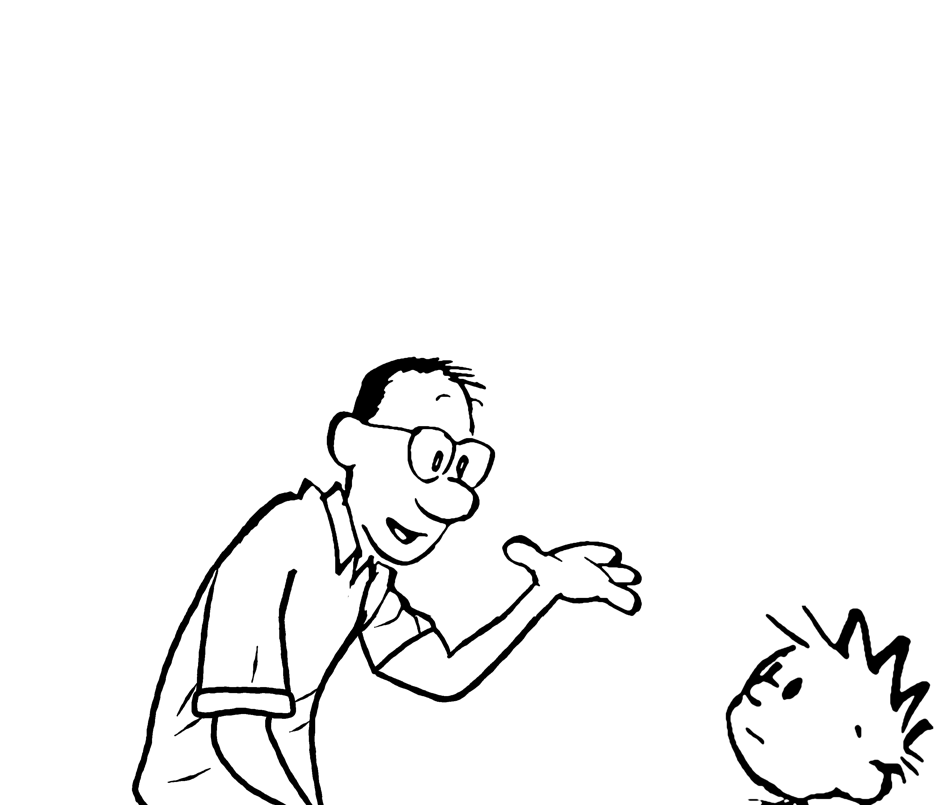
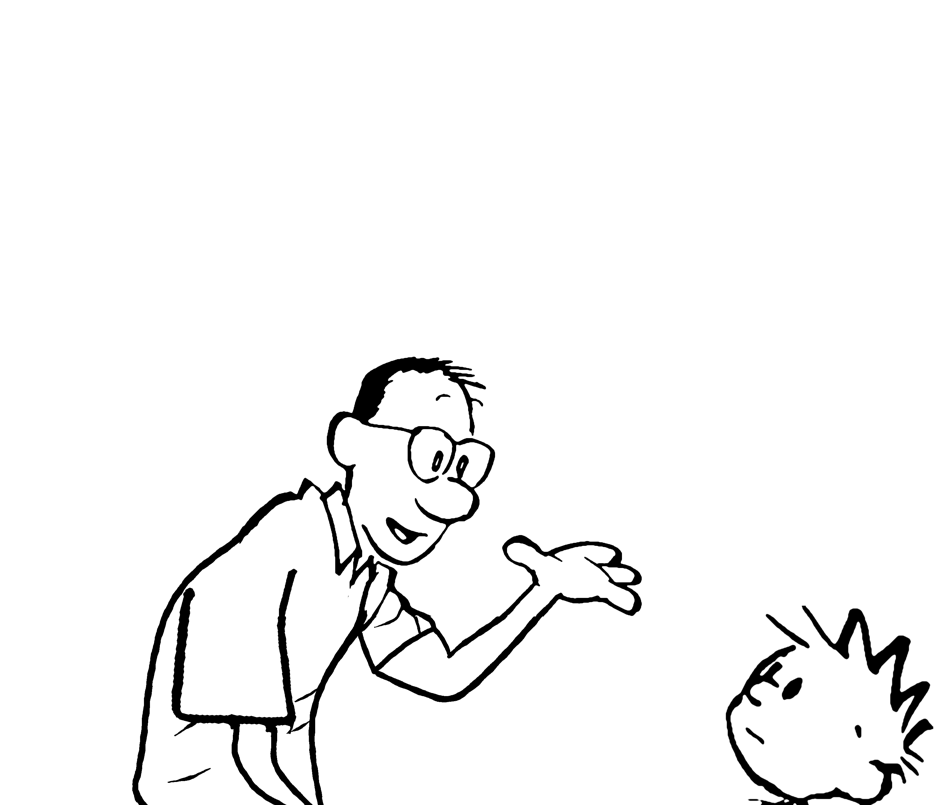
Panel 3: Dad's near sleeve is panel 1's, not a drawn one
The drawn sleeve was too long and narrow and had a turned-up cuff that
Watterson never draws. The near sleeve is now Watterson's own from
panel 1, enlarged to the close-up and joined to the scan's sleeve line
where it leaves the crop; the shirt's back stands clear of it as in
panel 1, and the forearm comes out of its hem.

Changed region(s): [[0.1221, 0.6832, 0.3358, 1.0]]

diff --git a/panels.html b/panels.html
@@ -10,10 +10,10 @@
 <div class="scroll"><div class="stage" style="--native-width:2834px"><img class="complete" src="assets/full-panels/panel1.png?v=b03ae498a9" width="2834" height="2066" alt="Completed comic panel 1 without dialogue" loading="lazy"><img class="source" src="assets/full-panels/original1.png" style="left:14.114326040931546%;top:0.0%;width:57.657021877205366%" width="1634" height="2066" alt="Original crop of panel 1" hidden></div></div></section><section id="panel-2"><h2>Panel 2</h2><p>Dad points to the record. The scan already reaches his knee at its foot, so the panel is extended only sideways: his back and near sleeve are drawn in code (dad2_refine.py), and the rest of Calvin's head comes from the earlier repaired upper artwork.</p>
 <p class="details">3182 × 2060 pixels · original-crop agreement: 100% · <a href="assets/full-panels/panel2.png?v=c294fa4dda" download="panel2.png">Download PNG</a> · <a href="assets/full-panels/panel2.png?v=c294fa4dda" target="_blank" rel="noopener">Open full size</a></p>
 <label><input class="show-source" type="checkbox"> Show original crop overlay</label>
-<div class="scroll"><div class="stage" style="--native-width:3182px"><img class="complete" src="assets/full-panels/panel2.png?v=c294fa4dda" width="3182" height="2060" alt="Completed comic panel 2 without dialogue" loading="lazy"><img class="source" src="assets/full-panels/original2.png" style="left:25.1414204902577%;top:0.0%;width:49.7171590194846%" width="1582" height="2060" alt="Original crop of panel 2" hidden></div></div></section><section id="panel-3"><h2>Panel 3</h2><p>Dad gestures towards Calvin. The panel ends just above his trousers, so his legs are never drawn: his back, shirt, sleeves and arms outside the scanned crop are drawn in code (drawn_legs.py). Calvin looks up at Dad; his figure comes from panel 1, enlarged by 56% for this closer view.</p>
-<p class="details">3174 × 2690 pixels · original-crop agreement: 100% · <a href="assets/full-panels/panel3.png?v=2a9d1bdb69" download="panel3.png">Download PNG</a> · <a href="assets/full-panels/panel3.png?v=2a9d1bdb69" target="_blank" rel="noopener">Open full size</a></p>
+<div class="scroll"><div class="stage" style="--native-width:3182px"><img class="complete" src="assets/full-panels/panel2.png?v=c294fa4dda" width="3182" height="2060" alt="Completed comic panel 2 without dialogue" loading="lazy"><img class="source" src="assets/full-panels/original2.png" style="left:25.1414204902577%;top:0.0%;width:49.7171590194846%" width="1582" height="2060" alt="Original crop of panel 2" hidden></div></div></section><section id="panel-3"><h2>Panel 3</h2><p>Dad gestures towards Calvin. The panel ends just above his trousers, so his legs are never drawn: his back, shirt, far sleeve and arms outside the scanned crop are drawn in code (drawn_legs.py), and his near sleeve is Watterson's own from panel 1. Calvin looks up at Dad; his figure comes from panel 1, enlarged by 56% for this closer view.</p>
+<p class="details">3174 × 2690 pixels · original-crop agreement: 100% · <a href="assets/full-panels/panel3.png?v=484f4d81ab" download="panel3.png">Download PNG</a> · <a href="assets/full-panels/panel3.png?v=484f4d81ab" target="_blank" rel="noopener">Open full size</a></p>
 <label><input class="show-source" type="checkbox"> Show original crop overlay</label>
-<div class="scroll"><div class="stage" style="--native-width:3174px"><img class="complete" src="assets/full-panels/panel3.png?v=2a9d1bdb69" width="3174" height="2690" alt="Completed comic panel 3 without dialogue" loading="lazy"><img class="source" src="assets/full-panels/original3.png" style="left:25.20478890989288%;top:0.0%;width:49.59042218021424%" width="1574" height="2060" alt="Original crop of panel 3" hidden></div></div></section><section id="panel-4"><h2>Panel 4</h2><p>Original night scene with the existing completed left side of the bed.</p>
+<div class="scroll"><div class="stage" style="--native-width:3174px"><img class="complete" src="assets/full-panels/panel3.png?v=484f4d81ab" width="3174" height="2690" alt="Completed comic panel 3 without dialogue" loading="lazy"><img class="source" src="assets/full-panels/original3.png" style="left:25.20478890989288%;top:0.0%;width:49.59042218021424%" width="1574" height="2060" alt="Original crop of panel 3" hidden></div></div></section><section id="panel-4"><h2>Panel 4</h2><p>Original night scene with the existing completed left side of the bed.</p>
 <p class="details">2368 × 2042 pixels · original-crop agreement: 100% · <a href="assets/full-panels/panel4.png?v=4821633204" download="panel4.png">Download PNG</a> · <a href="assets/full-panels/panel4.png?v=4821633204" target="_blank" rel="noopener">Open full size</a></p>
 <label><input class="show-source" type="checkbox"> Show original crop overlay</label>
 <div class="scroll"><div class="stage" style="--native-width:2368px"><img class="complete" src="assets/full-panels/panel4.png?v=4821633204" width="2368" height="2042" alt="Completed comic panel 4 without dialogue" loading="lazy"><img class="source" src="assets/full-panels/original4.png" style="left:16.89189189189189%;top:0.0%;width:66.21621621621621%" width="1568" height="2042" alt="Original crop of panel 4" hidden></div></div></section><footer><p>The source comparisons use the cleaned, smoothed artwork extracted from page 247, with lettering and balloons removed. Panel 4’s signature remains a separate asset. Agreement percentages count every pixel in the original crop, including white background; every panel keeps its original crop exactly. Panels 2 and 3 stop above Dad's legs; panel 3 directly reuses the original seated Calvin.</p><p><a href="assets/full-panels/verification.json">Pixel comparison results</a> · <a href="assets/full-panels/provenance.json">Artwork sources and rebuild steps</a></p></footer></main>

diff --git a/tools/extensions/reconstruction-v2/build_review.py b/tools/extensions/reconstruction-v2/build_review.py
@@ -10,7 +10,7 @@ for r in records:
     n=r['panel'];w,h=r['size'];x,y=r['originalOffset'];ow,oh=r['originalSize']
     digest=hashlib.sha256((OUT/f'panel{n}.png').read_bytes()).hexdigest()[:10]
     match=f"{100*r['originalMatchFraction']:.3f}".rstrip('0').rstrip('.')
-    note={1:'Original central artwork with the existing completed left extension.',2:'Dad points to the record. The scan already reaches his knee at its foot, so the panel is extended only sideways: his back and near sleeve are drawn in code (dad2_refine.py), and the rest of Calvin\'s head comes from the earlier repaired upper artwork.',3:'Dad gestures towards Calvin. The panel ends just above his trousers, so his legs are never drawn: his back, shirt, sleeves and arms outside the scanned crop are drawn in code (drawn_legs.py). Calvin looks up at Dad; his figure comes from panel 1, enlarged by 56% for this closer view.',4:'Original night scene with the existing completed left side of the bed.'}[n]
+    note={1:'Original central artwork with the existing completed left extension.',2:'Dad points to the record. The scan already reaches his knee at its foot, so the panel is extended only sideways: his back and near sleeve are drawn in code (dad2_refine.py), and the rest of Calvin\'s head comes from the earlier repaired upper artwork.',3:'Dad gestures towards Calvin. The panel ends just above his trousers, so his legs are never drawn: his back, shirt, far sleeve and arms outside the scanned crop are drawn in code (drawn_legs.py), and his near sleeve is Watterson\'s own from panel 1. Calvin looks up at Dad; his figure comes from panel 1, enlarged by 56% for this closer view.',4:'Original night scene with the existing completed left side of the bed.'}[n]
     parts.append(f'''<section id="panel-{n}"><h2>Panel {n}</h2><p>{note}</p>
 <p class="details">{w} × {h} pixels · original-crop agreement: {match}% · <a href="assets/full-panels/panel{n}.png?v={digest}" download="panel{n}.png">Download PNG</a> · <a href="assets/full-panels/panel{n}.png?v={digest}" target="_blank" rel="noopener">Open full size</a></p>
 <label><input class="show-source" type="checkbox"> Show original crop overlay</label>
@@ -28,7 +28,7 @@ document.querySelector('#opacity').addEventListener('input',e=>document.querySel
 document.querySelectorAll('.show-source').forEach(input=>input.addEventListener('change',()=>input.closest('section').querySelector('.source').hidden=!input.checked));
 </script></body></html>'''
 (ROOT/'panels.html').write_text(page)
-provenance={'source':'The Indispensable Calvin and Hobbes, local scanned PDF','sourcePage':247,'stripDate':'1990-06-05','sourceProcessing':'Existing build_assets.py ink/background extraction, lettering removal, and ART_SCALE=2 smoothing.','references':{'247':'Original four panels: panel 1\'s sleeve for panel 2\'s, and the seated Calvin'},'generation':'No generated imagery remains in Dad\'s figure: everything of him outside the scanned crops is drawn programmatically with the ink.py brush kit (dad2_refine.py for panel 2, drawn_legs.py for panel 3). The close-ups stop above his legs, which are not drawn.','directReuse':{'1':'Entire cleaned original panel; existing left extension retained.','2':'Entire cleaned scan crop retained, ending at its own foot. Dad\'s back and near sleeve to the left are drawn by dad2_refine.py; the rest of Calvin\'s head to the right comes from the prior repaired upper artwork.','3':'Entire cleaned scan crop retained. Dad outside the crop (back, shirt, both sleeves, the gesturing arm\'s elbow and the hanging arm) is drawn by drawn_legs.py, down to just above his trousers, where the panel ends. Calvin from panel 1 is enlarged 1.56×; the original upward-looking head joins the reflected seated body at its collar.','4':'Entire cleaned original night panel; existing left bed extension retained.'},'scaleCheck':{'metric':'Calvin head width / Dad head width, thresholded ink at full resolution','panel2':[602,493],'panel3':[693,562]},'rebuild':['.venv/bin/python tools/extensions/reconstruction-v2/prepare_inputs.py','.venv/bin/python tools/extensions/reconstruction-v2/assemble.py','.venv/bin/python tools/extensions/reconstruction-v2/build_review.py'],'outputs':records}
+provenance={'source':'The Indispensable Calvin and Hobbes, local scanned PDF','sourcePage':247,'stripDate':'1990-06-05','sourceProcessing':'Existing build_assets.py ink/background extraction, lettering removal, and ART_SCALE=2 smoothing.','references':{'247':'Original four panels: panel 1\'s sleeve for panels 2 and 3, and the seated Calvin'},'generation':'No generated imagery remains in Dad\'s figure: everything of him outside the scanned crops is drawn programmatically or moved from Watterson\'s own panel 1 with the ink.py brush kit (dad2_refine.py for panel 2, drawn_legs.py for panel 3). The close-ups stop above his legs, which are not drawn.','directReuse':{'1':'Entire cleaned original panel; existing left extension retained.','2':'Entire cleaned scan crop retained, ending at its own foot. Dad\'s back and near sleeve to the left are drawn by dad2_refine.py; the rest of Calvin\'s head to the right comes from the prior repaired upper artwork.','3':'Entire cleaned scan crop retained. Dad outside the crop (back, shirt, far sleeve, the gesturing arm\'s elbow and the hanging arm) is drawn by drawn_legs.py, down to just above his trousers, where the panel ends; his near sleeve is panel 1\'s, enlarged to the close-up\'s scale. Calvin from panel 1 is enlarged 1.56×; the original upward-looking head joins the reflected seated body at its collar.','4':'Entire cleaned original night panel; existing left bed extension retained.'},'scaleCheck':{'metric':'Calvin head width / Dad head width, thresholded ink at full resolution','panel2':[602,493],'panel3':[693,562]},'rebuild':['.venv/bin/python tools/extensions/reconstruction-v2/prepare_inputs.py','.venv/bin/python tools/extensions/reconstruction-v2/assemble.py','.venv/bin/python tools/extensions/reconstruction-v2/build_review.py'],'outputs':records}
 (OUT/'provenance.json').write_text(json.dumps(provenance,indent=2)+'\n')
 (ROOT/'output').mkdir(exist_ok=True)
 with zipfile.ZipFile(ROOT/'output/full-panels.zip','w',zipfile.ZIP_DEFLATED) as bundle:

diff --git a/tools/extensions/reconstruction-v2/drawn_legs.py b/tools/extensions/reconstruction-v2/drawn_legs.py
@@ -50,12 +50,6 @@ def shoe(ink, heel, angle, scale=1.0, flip=False, foreshorten=1.0, width=22):
     ink.stroke(parts['toe_cap'], [3, 11, 10, 2])
 
 
-def outlined(ink, points, width=OUTLINE + 2):
-    """A white shape with a closed ink outline."""
-    ink.fill(points, colour=255, wobble=0)
-    ink.stroke(points, [width, width * 1.1, width * 0.95, width * 1.15, width], closed=True)
-
-
 # The scanned gesturing hand in panel 3: its bounding box and the wrist, where
 # the two lines of the forearm reach the thumb (A) and the palm (B).
 SCAN_HAND_BOX = (1585, 1770, 2200, 2080)
@@ -157,6 +151,39 @@ def resting_thumb(image, target, angle, scale, bend):
     return ink, shape
 
 
+# Dad's near sleeve in panel 1 (locked-1.png): a polygon around its two
+# open-topped side lines and its hem, the tops of those lines, and where
+# the arm's two edges leave the hem (just inside it, so they meet
+# the stubs of them that come with the sleeve).
+SLEEVE_KEEP = [(56, 612), (205, 520), (245, 520), (258, 620), (292, 740), (306, 782),
+               (304, 812), (250, 822), (140, 842), (90, 846), (84, 800), (60, 700)]
+SLEEVE_TOPS = ((73, 618), (223, 538))
+SLEEVE_ARM = ((212, 822), (276, 812))
+# The point on panel 1's front sleeve line that lands where panel 3's own
+# sleeve line leaves the crop, the scale between the two (Dad's head is
+# about 290px wide in panel 1, 562px here) and the turn that lines the two
+# up without tipping the hem much.
+SLEEVE_PIVOT = (238, 620)
+SLEEVE_AT = (942, 2059)
+SLEEVE_SCALE = 562 / 290
+SLEEVE_TURN = 15
+
+
+def _sleeve(size):
+    from PIL import Image
+    from pathlib import Path
+    source = Image.open(Path(__file__).resolve().parent / 'locked-1.png')
+    return transplant(source, SLEEVE_KEEP, [SLEEVE_TOPS], SLEEVE_PIVOT, SLEEVE_AT,
+                      SLEEVE_TURN, scale=(SLEEVE_SCALE, SLEEVE_SCALE), size=size)
+
+
+def near_sleeve(size):
+    """Panel 1's near sleeve moved onto Dad's near arm in panel 3: its ink
+    and its filled silhouette, as masks of `size`."""
+    ink, shape, _ = _sleeve(size)
+    return ink, shape
+
+
 HAND_WRIST = (1000, 2700)
 HAND_TILT = 28
 HAND_SCALE = 0.95
@@ -169,7 +196,7 @@ def panel_three(image):
 
     Everything of him outside the scanned crop (left of x=800 and below
     y=2060) down to the panel's foot, just above his trousers, is drawn
-    here: his back and shirt, the rolled near sleeve, the hanging arm, the
+    here: his back and shirt, the near sleeve (panel 1's), the hanging arm, the
     far side of his shirt, the far sleeve and the gesturing arm down to its
     elbow. Lines that leave the crop are continued from where they cross
     its edge.
@@ -179,9 +206,10 @@ def panel_three(image):
     # The shirt, hanging loose over the trousers. Its back runs on from the
     # shoulder where it leaves the crop at (800, 1796); its far side from the
     # placket line crossing the crop's foot at x=1210.
-    back = [(830, 1752), (800, 1796), (750, 1855), (690, 1940), (650, 2020),
-            (610, 2095), (562, 2210), (530, 2310), (508, 2400), (494, 2490),
-            (470, 2570), (452, 2632), (462, 2672)]
+    # It stands clear of the near sleeve, as in panel 1.
+    back = [(830, 1752), (800, 1796), (730, 1850), (650, 1915), (588, 1992),
+            (545, 2080), (518, 2180), (500, 2280), (488, 2380), (478, 2480),
+            (464, 2570), (452, 2632), (462, 2672)]
     hem = [(452, 2640), (474, 2684), (522, 2718), (592, 2742), (690, 2754),
            (800, 2748), (900, 2740), (1000, 2748), (1090, 2760)]
     far_side = [(1217, 2000), (1210, 2059), (1190, 2105), (1150, 2165),
@@ -222,25 +250,16 @@ def panel_three(image):
                 (1572, 2298), (1640, 2234), (1722, 2148), (1799, 2059), (1846, 2005)],
                [18, 20, 21, 22, 22, 21, 22, 23])
 
-    # The near sleeve, as Dad's sleeves are drawn in panels 1 and 2: long
-    # and loose, nearly to the elbow and about twice the arm's width, with a
-    # turned-up cuff. Its front edge is the line leaving the crop at x=942;
-    # its back edge leaves his back below the shoulder.
+    # The near sleeve is Watterson's own from panel 1 (see near_sleeve).
     hand_ink, hand_shape, thumb_end, palm_end = resting_hand(image, HAND_WRIST, HAND_TILT, HAND_SCALE)
     thumb_ink, thumb_shape = resting_thumb(image, HAND_WRIST, HAND_TILT, HAND_SCALE, THUMB_BEND)
-    # The arm below the sleeve: a short stretch of upper arm, the elbow, and
-    # the forearm reaching forward along his thigh to the hand.
-    left = [(721, 2392), (714, 2440), (722, 2496), (760, 2560), (830, 2630), thumb_end]
-    right = [(901, 2390), (896, 2430), (924, 2500), (962, 2580), palm_end]
+    sleeve_ink, sleeve_shape, sleeve_place = _sleeve((w, h))
+    # The arm comes out of the sleeve where it does in panel 1 and reaches
+    # forward along his thigh to the hand.
+    arm_back, arm_front = (sleeve_place(p) for p in SLEEVE_ARM)
+    left = [arm_back, (786, 2520), (818, 2588), (866, 2646), thumb_end]
+    right = [arm_front, (918, 2548), (952, 2606), palm_end]
     ink.fill(left + right[::-1], colour=255, wobble=0)
-    sleeve_back = [(728, 1900), (700, 2000), (682, 2120), (670, 2240), (664, 2330)]
-    sleeve_front = [(953, 2000), (942, 2059), (946, 2150), (956, 2250), (964, 2330)]
-    ink.fill(sleeve_back + sleeve_front[::-1], colour=255, wobble=0)
-    ink.stroke(sleeve_back, [4, 18, 20, 20, 19])
-    ink.stroke(sleeve_front, [20, 20, 20, 19, 19])
-    ink.stroke([(860, 2160), (852, 2230), (842, 2280)], [3, 12, 3])
-    outlined(ink, [(660, 2318), (810, 2306), (968, 2322), (978, 2352), (972, 2388),
-                   (810, 2376), (658, 2386), (650, 2352)])
     # The forearm's edges go over the hand's wrist so the two join.
     edges = Ink((w, h), seed=4)
     edges.stroke(left, [19, 20, 19, 20, 18])
@@ -253,4 +272,6 @@ def panel_three(image):
     drawing |= thumb_ink
     drawing[hand_shape] = False
     drawing |= hand_ink | edges.mask()
+    drawing[sleeve_shape] = False
+    drawing |= sleeve_ink
     return composite(image, drawing, region)

diff --git a/tests/test_full_panel_artwork.py b/tests/test_full_panel_artwork.py
@@ -78,3 +78,17 @@ def test_close_ups_stop_above_dads_legs():
     from scipy import ndimage
     assert not ndimage.binary_erosion(image[2060:, :1300], iterations=25).any()
 
+
+
+def test_panel3_near_sleeve_is_watterson_s_from_panel_one():
+    # The near sleeve below the crop is panel 1's sleeve moved into place,
+    # not a drawn one: its shape, and a single-line hem with no cuff.
+    import sys
+    sys.path.insert(0, str(ROOT / 'tools/extensions/reconstruction-v2'))
+    import drawn_legs
+    image = np.asarray(Image.open(OUT / 'panel3.png').convert('L')) < 128
+    ink, shape = drawn_legs.near_sleeve(image.shape[::-1])
+    region = shape.copy()
+    region[:2060, 800:] = False
+    assert region.sum() > 50_000
+    assert (image[region] == ink[region]).all()
